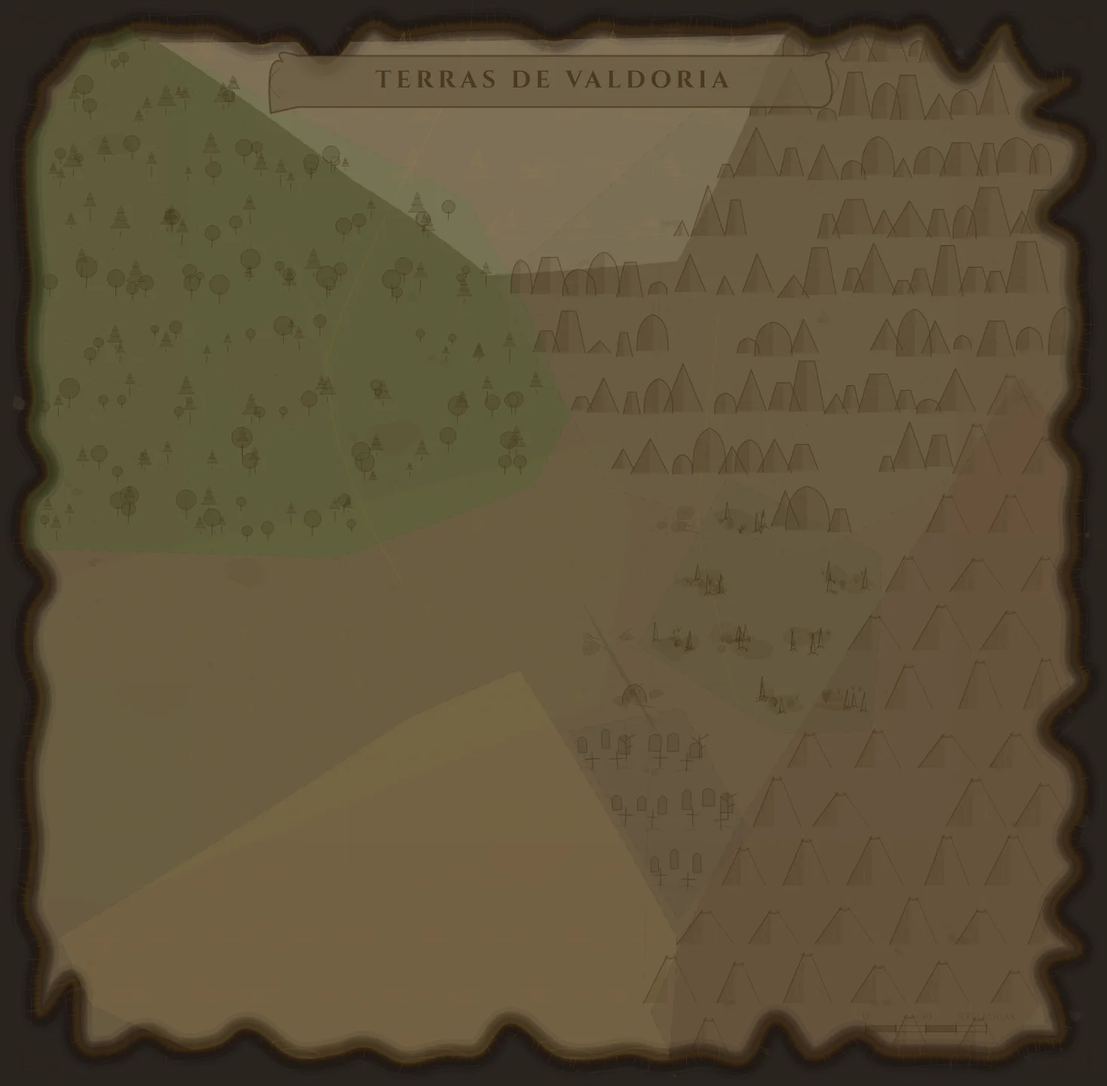
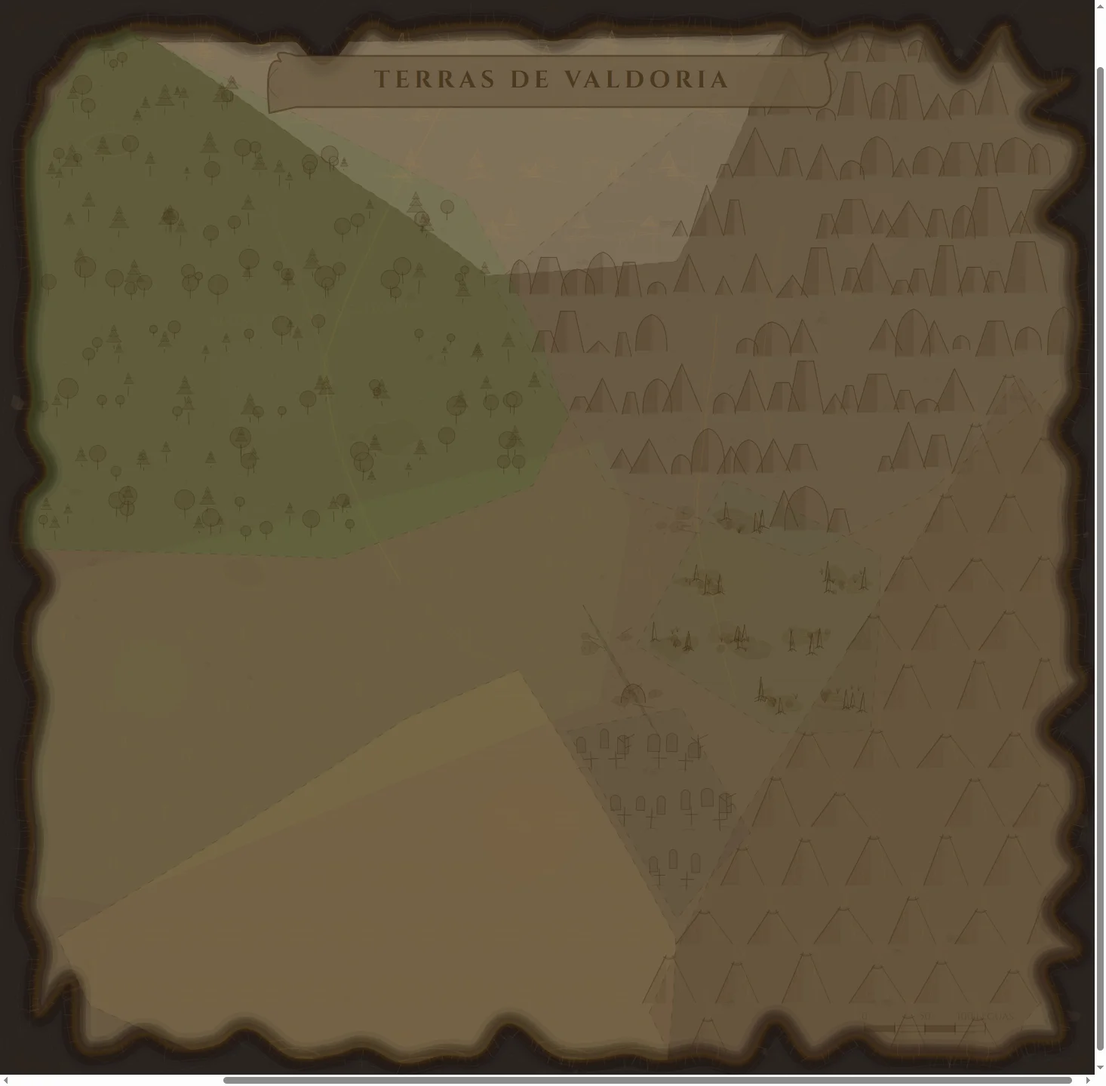
fix: boost terrain decoration opacity + regenerate static PNG
Terrain decorations (trees, mountains, rocks, etc.) were invisible due to
extremely low opacity values (0.06-0.22). Boosted fill-opacity, stroke-opacity,
and stroke-width across build-map-terrain.js and build-map-extras.js, then
regenerated all static map variants (2x PNG, 1x PNG, WebP).

Changed region(s): [[0.0, 0.0, 1.0, 1.0]]

diff --git a/navigate/build-map-extras.js b/navigate/build-map-extras.js
@@ -1,36 +1,36 @@
 function renderOceanWaves(svg){var wG=_el('g',{class:'ocean-waves','pointer-events':'none'});for(var ring=0;ring<4;ring++){var offset=8+ring*12,opacity=0.12-ring*0.02;var pts=LANDMASS_POINTS;var cx=pts.reduce(function(s,p){return s+p[0];},0)/pts.length;var cy=pts.reduce(function(s,p){return s+p[1];},0)/pts.length;var waveD='';for(var i=0;i<pts.length;i++){var px=pts[i][0],py=pts[i][1],dx=px-cx,dy=py-cy;var len=Math.sqrt(dx*dx+dy*dy)||1;var ox=px+(dx/len)*offset,oy=py+(dy/len)*offset;var wobX=(srand(i*47+ring*200)-0.5)*6,wobY=(srand(i*53+ring*200)-0.5)*6;if(i===0)waveD='M'+(ox+wobX)+','+(oy+wobY);else{var ppx=pts[i-1][0],ppy=pts[i-1][1],pdx=ppx-cx,pdy=ppy-cy;var plen=Math.sqrt(pdx*pdx+pdy*pdy)||1;var pox=ppx+(pdx/plen)*offset,poy=ppy+(pdy/plen)*offset;waveD+=' Q'+((pox+ox)/2+wobX)+','+((poy+oy)/2+wobY)+' '+(ox+wobX)+','+(oy+wobY);}}
-waveD+=' Z';wG.appendChild(_el('path',{d:waveD,fill:'none',stroke:INK,'stroke-width':0.4-ring*0.05,'stroke-opacity':opacity,'stroke-dasharray':ring%2===0?'none':'3 4'}));}
-for(var i=0;i<60;i++){var wx=20+srand(i*71)*(SVG_W-40),wy=20+srand(i*73+1)*(SVG_H-40);if(_pointInLandmass(wx,wy))continue;var wLen=4+srand(i*73+2)*8,wAmp=1+srand(i*73+3)*2;wG.appendChild(_el('path',{d:'M'+(wx-wLen)+','+wy+'Q'+wx+','+(wy-wAmp)+' '+(wx+wLen)+','+wy,fill:'none',stroke:INK,'stroke-width':0.3,'stroke-opacity':0.06+srand(i*73+4)*0.06}));}
+waveD+=' Z';wG.appendChild(_el('path',{d:waveD,fill:'none',stroke:INK,'stroke-width':0.6-ring*0.05,'stroke-opacity':opacity,'stroke-dasharray':ring%2===0?'none':'3 4'}));}
+for(var i=0;i<60;i++){var wx=20+srand(i*71)*(SVG_W-40),wy=20+srand(i*73+1)*(SVG_H-40);if(_pointInLandmass(wx,wy))continue;var wLen=4+srand(i*73+2)*8,wAmp=1+srand(i*73+3)*2;wG.appendChild(_el('path',{d:'M'+(wx-wLen)+','+wy+'Q'+wx+','+(wy-wAmp)+' '+(wx+wLen)+','+wy,fill:'none',stroke:INK,'stroke-width':0.4,'stroke-opacity':0.12+srand(i*73+4)*0.06}));}
 svg.appendChild(wG);}
-function renderTitleCartouche(svg){var cG=_el('g',{class:'title-cartouche','pointer-events':'none'});var tx=SVG_W/2,ty=55,fw=180,fh=36;var ribbonD='M'+(tx-fw)+','+(ty-fh/2+4)+' Q'+(tx-fw-12)+','+(ty-fh/2-2)+' '+(tx-fw-8)+','+(ty+fh/2+2)+' L'+(tx-fw+10)+','+(ty+fh/2-2)+' L'+(tx+fw-10)+','+(ty+fh/2-2)+' Q'+(tx+fw+12)+','+(ty+fh/2+2)+' '+(tx+fw)+','+(ty-fh/2+4)+' Q'+(tx+fw+8)+','+(ty-fh/2-6)+' '+(tx+fw-10)+','+(ty-fh/2)+' L'+(tx-fw+10)+','+(ty-fh/2)+' Q'+(tx-fw-8)+','+(ty-fh/2-6)+' '+(tx-fw)+','+(ty-fh/2+4)+' Z';cG.appendChild(_el('path',{d:ribbonD,fill:PARCHMENT,'fill-opacity':0.7,stroke:'none'}));cG.appendChild(_el('path',{d:ribbonD,fill:'none',stroke:INK_DARK,'stroke-width':1.2,'stroke-opacity':0.5}));var innerD='M'+(tx-fw+14)+','+(ty-fh/2+4)+'L'+(tx+fw-14)+','+(ty-fh/2+4)+'L'+(tx+fw-14)+','+(ty+fh/2-6)+'L'+(tx-fw+14)+','+(ty+fh/2-6)+'Z';cG.appendChild(_el('path',{d:innerD,fill:'none',stroke:INK,'stroke-width':0.4,'stroke-opacity':0.3}));[-1,1].forEach(function(side){var sx=tx+side*fw;cG.appendChild(_el('path',{d:'M'+(sx+side*2)+','+(ty-10)+'Q'+(sx+side*15)+','+ty+' '+(sx+side*2)+','+(ty+10),fill:'none',stroke:INK_DARK,'stroke-width':0.6,'stroke-opacity':0.3}));});var title=_el('text',{x:tx,y:ty+3,'text-anchor':'middle','font-size':'16px','font-family':'Cinzel Decorative, Cinzel, serif','font-weight':'700',fill:INK_DARK,'fill-opacity':0.7,'letter-spacing':'3px'});title.textContent='TERRAS DE VALDORIA';cG.appendChild(title);svg.appendChild(cG);}
-function renderBorderOrnaments(svg){var oG=_el('g',{class:'border-ornaments','pointer-events':'none'});var m=10;[{x:m,y:m,sx:1,sy:1},{x:SVG_W-m,y:m,sx:-1,sy:1},{x:m,y:SVG_H-m,sx:1,sy:-1},{x:SVG_W-m,y:SVG_H-m,sx:-1,sy:-1}].forEach(function(c){var g=_el('g',{transform:'translate('+c.x+','+c.y+') scale('+c.sx+','+c.sy+')'});g.appendChild(_el('path',{d:'M0,0 L35,0 Q30,5 25,3 Q18,8 12,5 Q8,10 5,8 Q3,15 0,12 Z',fill:INK_DARK,'fill-opacity':0.06,stroke:INK_DARK,'stroke-width':0.6,'stroke-opacity':0.25}));g.appendChild(_el('path',{d:'M3,3 Q8,0 10,5 Q12,10 8,12 Q4,14 3,10',fill:'none',stroke:INK_DARK,'stroke-width':0.5,'stroke-opacity':0.2}));g.appendChild(_el('circle',{cx:5,cy:5,r:1.2,fill:INK_DARK,'fill-opacity':0.15}));oG.appendChild(g);});[{x:SVG_W/2,y:6,rot:0},{x:SVG_W/2,y:SVG_H-6,rot:180},{x:6,y:SVG_H/2,rot:270},{x:SVG_W-6,y:SVG_H/2,rot:90}].forEach(function(mp){var mg=_el('g',{transform:'translate('+mp.x+','+mp.y+') rotate('+mp.rot+')'});mg.appendChild(_el('path',{d:'M0,-6 L4,0 L0,6 L-4,0 Z',fill:INK_DARK,'fill-opacity':0.08,stroke:INK_DARK,'stroke-width':0.5,'stroke-opacity':0.2}));mg.appendChild(_el('circle',{cx:-7,cy:0,r:0.8,fill:INK_DARK,'fill-opacity':0.12}));mg.appendChild(_el('circle',{cx:7,cy:0,r:0.8,fill:INK_DARK,'fill-opacity':0.12}));oG.appendChild(mg);});svg.appendChild(oG);}
-function renderScaleBar(svg){var sG=_el('g',{class:'scale-bar','pointer-events':'none'});var bx=SVG_W-160,by=SVG_H-40,barW=80,barH=4;for(var i=0;i<4;i++){var segW=barW/4;sG.appendChild(_el('rect',{x:bx+i*segW,y:by,width:segW,height:barH,fill:i%2===0?INK_DARK:'none','fill-opacity':0.3,stroke:INK_DARK,'stroke-width':0.5,'stroke-opacity':0.35}));}
-for(var i=0;i<=4;i++){sG.appendChild(_el('line',{x1:bx+(i/4)*barW,y1:by-2,x2:bx+(i/4)*barW,y2:by+barH+2,stroke:INK_DARK,'stroke-width':0.6,'stroke-opacity':0.35}));}
-[{text:'0',x:bx},{text:'50',x:bx+barW/2},{text:'100 leguas',x:bx+barW}].forEach(function(l){var t=_el('text',{x:l.x,y:by-4,'text-anchor':'middle','font-size':'7px','font-family':'Cinzel, serif',fill:INK_DARK,'fill-opacity':0.4});t.textContent=l.text;sG.appendChild(t);});svg.appendChild(sG);}
+function renderTitleCartouche(svg){var cG=_el('g',{class:'title-cartouche','pointer-events':'none'});var tx=SVG_W/2,ty=55,fw=180,fh=36;var ribbonD='M'+(tx-fw)+','+(ty-fh/2+4)+' Q'+(tx-fw-12)+','+(ty-fh/2-2)+' '+(tx-fw-8)+','+(ty+fh/2+2)+' L'+(tx-fw+10)+','+(ty+fh/2-2)+' L'+(tx+fw-10)+','+(ty+fh/2-2)+' Q'+(tx+fw+12)+','+(ty+fh/2+2)+' '+(tx+fw)+','+(ty-fh/2+4)+' Q'+(tx+fw+8)+','+(ty-fh/2-6)+' '+(tx+fw-10)+','+(ty-fh/2)+' L'+(tx-fw+10)+','+(ty-fh/2)+' Q'+(tx-fw-8)+','+(ty-fh/2-6)+' '+(tx-fw)+','+(ty-fh/2+4)+' Z';cG.appendChild(_el('path',{d:ribbonD,fill:PARCHMENT,'fill-opacity':0.50,stroke:'none'}));cG.appendChild(_el('path',{d:ribbonD,fill:'none',stroke:INK_DARK,'stroke-width':1.2,'stroke-opacity':0.80}));var innerD='M'+(tx-fw+14)+','+(ty-fh/2+4)+'L'+(tx+fw-14)+','+(ty-fh/2+4)+'L'+(tx+fw-14)+','+(ty+fh/2-6)+'L'+(tx-fw+14)+','+(ty+fh/2-6)+'Z';cG.appendChild(_el('path',{d:innerD,fill:'none',stroke:INK,'stroke-width':0.6,'stroke-opacity':0.60}));[-1,1].forEach(function(side){var sx=tx+side*fw;cG.appendChild(_el('path',{d:'M'+(sx+side*2)+','+(ty-10)+'Q'+(sx+side*15)+','+ty+' '+(sx+side*2)+','+(ty+10),fill:'none',stroke:INK_DARK,'stroke-width':0.9,'stroke-opacity':0.60}));});var title=_el('text',{x:tx,y:ty+3,'text-anchor':'middle','font-size':'16px','font-family':'Cinzel Decorative, Cinzel, serif','font-weight':'700',fill:INK_DARK,'fill-opacity':0.50,'letter-spacing':'3px'});title.textContent='TERRAS DE VALDORIA';cG.appendChild(title);svg.appendChild(cG);}
+function renderBorderOrnaments(svg){var oG=_el('g',{class:'border-ornaments','pointer-events':'none'});var m=10;[{x:m,y:m,sx:1,sy:1},{x:SVG_W-m,y:m,sx:-1,sy:1},{x:m,y:SVG_H-m,sx:1,sy:-1},{x:SVG_W-m,y:SVG_H-m,sx:-1,sy:-1}].forEach(function(c){var g=_el('g',{transform:'translate('+c.x+','+c.y+') scale('+c.sx+','+c.sy+')'});g.appendChild(_el('path',{d:'M0,0 L35,0 Q30,5 25,3 Q18,8 12,5 Q8,10 5,8 Q3,15 0,12 Z',fill:INK_DARK,'fill-opacity':0.15,stroke:INK_DARK,'stroke-width':0.9,'stroke-opacity':0.50}));g.appendChild(_el('path',{d:'M3,3 Q8,0 10,5 Q12,10 8,12 Q4,14 3,10',fill:'none',stroke:INK_DARK,'stroke-width':0.8,'stroke-opacity':0.40}));g.appendChild(_el('circle',{cx:5,cy:5,r:1.2,fill:INK_DARK,'fill-opacity':0.38}));oG.appendChild(g);});[{x:SVG_W/2,y:6,rot:0},{x:SVG_W/2,y:SVG_H-6,rot:180},{x:6,y:SVG_H/2,rot:270},{x:SVG_W-6,y:SVG_H/2,rot:90}].forEach(function(mp){var mg=_el('g',{transform:'translate('+mp.x+','+mp.y+') rotate('+mp.rot+')'});mg.appendChild(_el('path',{d:'M0,-6 L4,0 L0,6 L-4,0 Z',fill:INK_DARK,'fill-opacity':0.20,stroke:INK_DARK,'stroke-width':0.8,'stroke-opacity':0.40}));mg.appendChild(_el('circle',{cx:-7,cy:0,r:0.8,fill:INK_DARK,'fill-opacity':0.30}));mg.appendChild(_el('circle',{cx:7,cy:0,r:0.8,fill:INK_DARK,'fill-opacity':0.30}));oG.appendChild(mg);});svg.appendChild(oG);}
+function renderScaleBar(svg){var sG=_el('g',{class:'scale-bar','pointer-events':'none'});var bx=SVG_W-160,by=SVG_H-40,barW=80,barH=4;for(var i=0;i<4;i++){var segW=barW/4;sG.appendChild(_el('rect',{x:bx+i*segW,y:by,width:segW,height:barH,fill:i%2===0?INK_DARK:'none','fill-opacity':0.50,stroke:INK_DARK,'stroke-width':0.8,'stroke-opacity':0.70}));}
+for(var i=0;i<=4;i++){sG.appendChild(_el('line',{x1:bx+(i/4)*barW,y1:by-2,x2:bx+(i/4)*barW,y2:by+barH+2,stroke:INK_DARK,'stroke-width':0.9,'stroke-opacity':0.70}));}
+[{text:'0',x:bx},{text:'50',x:bx+barW/2},{text:'100 leguas',x:bx+barW}].forEach(function(l){var t=_el('text',{x:l.x,y:by-4,'text-anchor':'middle','font-size':'7px','font-family':'Cinzel, serif',fill:INK_DARK,'fill-opacity':0.50});t.textContent=l.text;sG.appendChild(t);});svg.appendChild(sG);}
 function renderSeaCreatures(svg){var cG=_el('g',{class:'sea-creatures','pointer-events':'none'});_drawWhaleEpic(cG,55,95);_drawKrakenTentacle(cG,40,SVG_H-70);_drawFishSchool(cG,SVG_W/2+80,22);_drawSeaTurtle(cG,SVG_W-45,SVG_H/2+30);_drawJellyfish(cG,30,SVG_H/2-60);_drawSailingShip(cG,SVG_W-65,80);_drawSmallBoat(cG,SVG_W/2-100,SVG_H-35);svg.appendChild(cG);}
-function _drawWhaleEpic(g,x,y){var wg=_el('g',{opacity:0.12});wg.appendChild(_el('path',{d:'M'+x+','+y+' C'+(x+8)+','+(y-8)+' '+(x+22)+','+(y-10)+' '+(x+30)+','+(y-4)+' C'+(x+36)+','+y+' '+(x+32)+','+(y+6)+' '+(x+24)+','+(y+8)+' C'+(x+16)+','+(y+10)+' '+(x+6)+','+(y+6)+' '+x+','+y,fill:INK_DARK,'fill-opacity':0.4,stroke:INK,'stroke-width':1.2}));wg.appendChild(_el('path',{d:'M'+(x-2)+','+(y+1)+' C'+(x-8)+','+(y-6)+' '+(x-12)+','+(y-2)+' '+(x-10)+','+(y+2)+' C'+(x-12)+','+(y+6)+' '+(x-8)+','+(y+8)+' '+(x-2)+','+(y+1),fill:INK_DARK,'fill-opacity':0.3,stroke:INK,'stroke-width':0.8}));wg.appendChild(_el('path',{d:'M'+(x+20)+','+(y-8)+' Q'+(x+18)+','+(y-16)+' '+(x+22)+','+(y-18)+' M'+(x+20)+','+(y-8)+' Q'+(x+22)+','+(y-16)+' '+(x+18)+','+(y-18),fill:'none',stroke:INK,'stroke-width':0.6}));wg.appendChild(_el('circle',{cx:x+26,cy:y-2,r:1,fill:INK_DARK}));g.appendChild(wg);}
-function _drawKrakenTentacle(g,x,y){var kg=_el('g',{opacity:0.1});['M'+x+','+y+' Q'+(x+15)+','+(y-8)+' '+(x+25)+','+(y-15)+' Q'+(x+30)+','+(y-20)+' '+(x+28)+','+(y-28),'M'+(x-5)+','+(y+5)+' Q'+(x+8)+','+y+' '+(x+18)+','+(y-5)+' Q'+(x+24)+','+(y-8)+' '+(x+20)+','+(y-14),'M'+(x+3)+','+(y+8)+' Q'+(x+12)+','+(y+5)+' '+(x+22)+','+(y+2)+' Q'+(x+28)+','+y+' '+(x+26)+','+(y-6)].forEach(function(d,i){kg.appendChild(_el('path',{d:d,fill:'none',stroke:INK,'stroke-width':2.5-i*0.5,'stroke-linecap':'round'}));for(var j=0;j<4;j++){var t=0.25+j*0.2;kg.appendChild(_el('circle',{cx:x+t*25+(srand(i*100+j*17)-0.5)*4,cy:y-t*15+i*5+(srand(i*100+j*23)-0.5)*3,r:0.8-j*0.1,fill:INK,'fill-opacity':0.5}));}});g.appendChild(kg);}
-function _drawFishSchool(g,x,y){var fg=_el('g',{opacity:0.1});for(var i=0;i<6;i++){var fx=x+(srand(i*37)-0.5)*30,fy=y+(srand(i*41)-0.5)*12,sz=2.5+srand(i*43)*2,dir=srand(i*47)>0.5?1:-1;fg.appendChild(_el('path',{d:'M'+(fx-sz*dir)+','+fy+' Q'+fx+','+(fy-sz*0.4)+' '+(fx+sz*dir)+','+fy+' Q'+fx+','+(fy+sz*0.4)+' '+(fx-sz*dir)+','+fy,fill:INK,'fill-opacity':0.4,stroke:INK,'stroke-width':0.3}));fg.appendChild(_el('path',{d:'M'+(fx-sz*dir)+','+fy+'L'+(fx-sz*1.5*dir)+','+(fy-sz*0.3)+' M'+(fx-sz*dir)+','+fy+'L'+(fx-sz*1.5*dir)+','+(fy+sz*0.3),fill:'none',stroke:INK,'stroke-width':0.4}));fg.appendChild(_el('circle',{cx:fx+sz*0.4*dir,cy:fy-sz*0.1,r:0.4,fill:INK_DARK}));}g.appendChild(fg);}
-function _drawSeaTurtle(g,x,y){var tg=_el('g',{opacity:0.1});tg.appendChild(_el('ellipse',{cx:x,cy:y,rx:8,ry:6,fill:INK,'fill-opacity':0.3,stroke:INK,'stroke-width':0.8}));for(var i=0;i<5;i++){var a=(i/5)*Math.PI*2;tg.appendChild(_el('line',{x1:x,y1:y,x2:x+Math.cos(a)*4,y2:y+Math.sin(a)*3,stroke:INK,'stroke-width':0.3,'stroke-opacity':0.4}));}tg.appendChild(_el('ellipse',{cx:x+9,cy:y-1,rx:3,ry:2,fill:INK,'fill-opacity':0.25,stroke:INK,'stroke-width':0.5}));[[-6,-5,-30],[-6,5,30],[5,-4,-50],[5,4,50]].forEach(function(f){tg.appendChild(_el('ellipse',{cx:x+f[0],cy:y+f[1],rx:4,ry:1.5,transform:'rotate('+f[2]+', '+(x+f[0])+', '+(y+f[1])+')',fill:INK,'fill-opacity':0.2,stroke:INK,'stroke-width':0.3}));});g.appendChild(tg);}
-function _drawJellyfish(g,x,y){var jg=_el('g',{opacity:0.09});jg.appendChild(_el('path',{d:'M'+(x-7)+','+y+' Q'+(x-7)+','+(y-10)+' '+x+','+(y-12)+' Q'+(x+7)+','+(y-10)+' '+(x+7)+','+y+' Z',fill:INK,'fill-opacity':0.25,stroke:INK,'stroke-width':0.6}));for(var i=0;i<5;i++){var tx=x-5+i*2.5;jg.appendChild(_el('path',{d:'M'+tx+','+y+' Q'+(tx+(srand(i*37)-0.5)*4)+','+(y+8)+' '+(tx+(srand(i*41)-0.5)*6)+','+(y+16),fill:'none',stroke:INK,'stroke-width':0.4,'stroke-linecap':'round'}));}g.appendChild(jg);}
-function _drawSailingShip(g,x,y){var sg=_el('g',{opacity:0.12});sg.appendChild(_el('path',{d:'M'+(x-14)+','+(y+2)+' L'+(x-10)+','+(y+6)+' L'+(x+10)+','+(y+6)+' L'+(x+14)+','+(y+2),fill:INK,'fill-opacity':0.2,stroke:INK,'stroke-width':0.8}));sg.appendChild(_el('line',{x1:x,y1:y+4,x2:x,y2:y-16,stroke:INK,'stroke-width':0.8}));sg.appendChild(_el('path',{d:'M'+x+','+(y-14)+' Q'+(x+10)+','+(y-8)+' '+x+','+(y-2),fill:INK,'fill-opacity':0.15,stroke:INK,'stroke-width':0.5}));sg.appendChild(_el('path',{d:'M'+x+','+(y-12)+' Q'+(x-7)+','+(y-7)+' '+x+','+(y-2),fill:INK,'fill-opacity':0.1,stroke:INK,'stroke-width':0.4}));sg.appendChild(_el('path',{d:'M'+x+','+(y-16)+' L'+(x+5)+','+(y-14)+' L'+x+','+(y-12),fill:INK,'fill-opacity':0.3,stroke:'none'}));sg.appendChild(_el('path',{d:'M'+(x-18)+','+(y+6)+' Q'+(x-8)+','+(y+4)+' '+x+','+(y+6)+' Q'+(x+8)+','+(y+8)+' '+(x+18)+','+(y+6),fill:'none',stroke:INK,'stroke-width':0.4,'stroke-opacity':0.6}));g.appendChild(sg);}
-function _drawSmallBoat(g,x,y){var bg=_el('g',{opacity:0.1});bg.appendChild(_el('path',{d:'M'+(x-8)+','+y+' L'+(x-6)+','+(y+3)+' L'+(x+6)+','+(y+3)+' L'+(x+8)+','+y,fill:INK,'fill-opacity':0.2,stroke:INK,'stroke-width':0.6}));bg.appendChild(_el('line',{x1:x,y1:y+2,x2:x,y2:y-8,stroke:INK,'stroke-width':0.6}));bg.appendChild(_el('path',{d:'M'+x+','+(y-7)+' Q'+(x+5)+','+(y-4)+' '+x+','+(y-1),fill:INK,'fill-opacity':0.12,stroke:INK,'stroke-width':0.3}));g.appendChild(bg);}
-function renderExtraRivers(svg){var rG=_el('g',{class:'extra-rivers','pointer-events':'none','clip-path':'url(#land-clip)'});var rivers=[{pts:[[180,140],[195,180],[210,220],[220,255]],w:0.8},{pts:[[520,150],[510,200],[505,250],[510,290]],w:0.9},{pts:[[280,400],[310,430],[350,450],[380,440]],w:0.7},{pts:[[420,350],[430,370],[435,395]],w:0.5},{pts:[[350,80],[340,120],[330,155]],w:0.6}];for(var ri=0;ri<rivers.length;ri++){var river=rivers[ri],p=river.pts;var d='M'+p[0][0]+','+p[0][1];for(var i=1;i<p.length;i++){d+=' Q'+((p[i-1][0]+p[i][0])/2+(srand(i*43+p[0][0])-0.5)*6)+','+((p[i-1][1]+p[i][1])/2+(srand(i*47+p[0][1])-0.5)*5)+' '+p[i][0]+','+p[i][1];}rG.appendChild(_el('path',{d:d,fill:'none',stroke:INK,'stroke-width':river.w*0.5,'stroke-opacity':0.3,'stroke-linecap':'round'}));for(var si=0;si<2;si++){var side=si===0?-1:1,dSide='';for(var i2=0;i2<p.length;i2++){var prev=i2>0?p[i2-1]:p[0],curr=p[i2];var dx=i2<p.length-1?p[i2+1][0]-curr[0]:curr[0]-prev[0],dy=i2<p.length-1?p[i2+1][1]-curr[1]:curr[1]-prev[1];var len=Math.sqrt(dx*dx+dy*dy)||1,nx=-dy/len*side*1.2,ny=dx/len*side*1.2;if(i2===0)dSide='M'+(curr[0]+nx)+','+(curr[1]+ny);else dSide+=' Q'+((prev[0]+curr[0])/2+nx+(srand(i2*37+p[0][0]+side*200)-0.5)*4)+','+((prev[1]+curr[1])/2+ny+(srand(i2*41+p[0][1]+side*200)-0.5)*3)+' '+(curr[0]+nx)+','+(curr[1]+ny);}rG.appendChild(_el('path',{d:dSide,fill:'none',stroke:INK,'stroke-width':0.25,'stroke-opacity':0.18,'stroke-linecap':'round'}));}}
+function _drawWhaleEpic(g,x,y){var wg=_el('g',{opacity:0.12});wg.appendChild(_el('path',{d:'M'+x+','+y+' C'+(x+8)+','+(y-8)+' '+(x+22)+','+(y-10)+' '+(x+30)+','+(y-4)+' C'+(x+36)+','+y+' '+(x+32)+','+(y+6)+' '+(x+24)+','+(y+8)+' C'+(x+16)+','+(y+10)+' '+(x+6)+','+(y+6)+' '+x+','+y,fill:INK_DARK,'fill-opacity':0.50,stroke:INK,'stroke-width':1.2}));wg.appendChild(_el('path',{d:'M'+(x-2)+','+(y+1)+' C'+(x-8)+','+(y-6)+' '+(x-12)+','+(y-2)+' '+(x-10)+','+(y+2)+' C'+(x-12)+','+(y+6)+' '+(x-8)+','+(y+8)+' '+(x-2)+','+(y+1),fill:INK_DARK,'fill-opacity':0.50,stroke:INK,'stroke-width':1.2}));wg.appendChild(_el('path',{d:'M'+(x+20)+','+(y-8)+' Q'+(x+18)+','+(y-16)+' '+(x+22)+','+(y-18)+' M'+(x+20)+','+(y-8)+' Q'+(x+22)+','+(y-16)+' '+(x+18)+','+(y-18),fill:'none',stroke:INK,'stroke-width':0.9}));wg.appendChild(_el('circle',{cx:x+26,cy:y-2,r:1,fill:INK_DARK}));g.appendChild(wg);}
+function _drawKrakenTentacle(g,x,y){var kg=_el('g',{opacity:0.1});['M'+x+','+y+' Q'+(x+15)+','+(y-8)+' '+(x+25)+','+(y-15)+' Q'+(x+30)+','+(y-20)+' '+(x+28)+','+(y-28),'M'+(x-5)+','+(y+5)+' Q'+(x+8)+','+y+' '+(x+18)+','+(y-5)+' Q'+(x+24)+','+(y-8)+' '+(x+20)+','+(y-14),'M'+(x+3)+','+(y+8)+' Q'+(x+12)+','+(y+5)+' '+(x+22)+','+(y+2)+' Q'+(x+28)+','+y+' '+(x+26)+','+(y-6)].forEach(function(d,i){kg.appendChild(_el('path',{d:d,fill:'none',stroke:INK,'stroke-width':2.5-i*0.5,'stroke-linecap':'round'}));for(var j=0;j<4;j++){var t=0.25+j*0.2;kg.appendChild(_el('circle',{cx:x+t*25+(srand(i*100+j*17)-0.5)*4,cy:y-t*15+i*5+(srand(i*100+j*23)-0.5)*3,r:0.8-j*0.1,fill:INK,'fill-opacity':0.50}));}});g.appendChild(kg);}
+function _drawFishSchool(g,x,y){var fg=_el('g',{opacity:0.1});for(var i=0;i<6;i++){var fx=x+(srand(i*37)-0.5)*30,fy=y+(srand(i*41)-0.5)*12,sz=2.5+srand(i*43)*2,dir=srand(i*47)>0.5?1:-1;fg.appendChild(_el('path',{d:'M'+(fx-sz*dir)+','+fy+' Q'+fx+','+(fy-sz*0.4)+' '+(fx+sz*dir)+','+fy+' Q'+fx+','+(fy+sz*0.4)+' '+(fx-sz*dir)+','+fy,fill:INK,'fill-opacity':0.50,stroke:INK,'stroke-width':0.4}));fg.appendChild(_el('path',{d:'M'+(fx-sz*dir)+','+fy+'L'+(fx-sz*1.5*dir)+','+(fy-sz*0.3)+' M'+(fx-sz*dir)+','+fy+'L'+(fx-sz*1.5*dir)+','+(fy+sz*0.3),fill:'none',stroke:INK,'stroke-width':0.6}));fg.appendChild(_el('circle',{cx:fx+sz*0.4*dir,cy:fy-sz*0.1,r:0.4,fill:INK_DARK}));}g.appendChild(fg);}
+function _drawSeaTurtle(g,x,y){var tg=_el('g',{opacity:0.1});tg.appendChild(_el('ellipse',{cx:x,cy:y,rx:8,ry:6,fill:INK,'fill-opacity':0.50,stroke:INK,'stroke-width':1.2}));for(var i=0;i<5;i++){var a=(i/5)*Math.PI*2;tg.appendChild(_el('line',{x1:x,y1:y,x2:x+Math.cos(a)*4,y2:y+Math.sin(a)*3,stroke:INK,'stroke-width':0.4,'stroke-opacity':0.80}));}tg.appendChild(_el('ellipse',{cx:x+9,cy:y-1,rx:3,ry:2,fill:INK,'fill-opacity':0.50,stroke:INK,'stroke-width':0.8}));[[-6,-5,-30],[-6,5,30],[5,-4,-50],[5,4,50]].forEach(function(f){tg.appendChild(_el('ellipse',{cx:x+f[0],cy:y+f[1],rx:4,ry:1.5,transform:'rotate('+f[2]+', '+(x+f[0])+', '+(y+f[1])+')',fill:INK,'fill-opacity':0.50,stroke:INK,'stroke-width':0.4}));});g.appendChild(tg);}
+function _drawJellyfish(g,x,y){var jg=_el('g',{opacity:0.09});jg.appendChild(_el('path',{d:'M'+(x-7)+','+y+' Q'+(x-7)+','+(y-10)+' '+x+','+(y-12)+' Q'+(x+7)+','+(y-10)+' '+(x+7)+','+y+' Z',fill:INK,'fill-opacity':0.50,stroke:INK,'stroke-width':0.9}));for(var i=0;i<5;i++){var tx=x-5+i*2.5;jg.appendChild(_el('path',{d:'M'+tx+','+y+' Q'+(tx+(srand(i*37)-0.5)*4)+','+(y+8)+' '+(tx+(srand(i*41)-0.5)*6)+','+(y+16),fill:'none',stroke:INK,'stroke-width':0.6,'stroke-linecap':'round'}));}g.appendChild(jg);}
+function _drawSailingShip(g,x,y){var sg=_el('g',{opacity:0.12});sg.appendChild(_el('path',{d:'M'+(x-14)+','+(y+2)+' L'+(x-10)+','+(y+6)+' L'+(x+10)+','+(y+6)+' L'+(x+14)+','+(y+2),fill:INK,'fill-opacity':0.50,stroke:INK,'stroke-width':1.2}));sg.appendChild(_el('line',{x1:x,y1:y+4,x2:x,y2:y-16,stroke:INK,'stroke-width':1.2}));sg.appendChild(_el('path',{d:'M'+x+','+(y-14)+' Q'+(x+10)+','+(y-8)+' '+x+','+(y-2),fill:INK,'fill-opacity':0.38,stroke:INK,'stroke-width':0.8}));sg.appendChild(_el('path',{d:'M'+x+','+(y-12)+' Q'+(x-7)+','+(y-7)+' '+x+','+(y-2),fill:INK,'fill-opacity':0.25,stroke:INK,'stroke-width':0.6}));sg.appendChild(_el('path',{d:'M'+x+','+(y-16)+' L'+(x+5)+','+(y-14)+' L'+x+','+(y-12),fill:INK,'fill-opacity':0.50,stroke:'none'}));sg.appendChild(_el('path',{d:'M'+(x-18)+','+(y+6)+' Q'+(x-8)+','+(y+4)+' '+x+','+(y+6)+' Q'+(x+8)+','+(y+8)+' '+(x+18)+','+(y+6),fill:'none',stroke:INK,'stroke-width':0.6,'stroke-opacity':0.80}));g.appendChild(sg);}
+function _drawSmallBoat(g,x,y){var bg=_el('g',{opacity:0.1});bg.appendChild(_el('path',{d:'M'+(x-8)+','+y+' L'+(x-6)+','+(y+3)+' L'+(x+6)+','+(y+3)+' L'+(x+8)+','+y,fill:INK,'fill-opacity':0.50,stroke:INK,'stroke-width':0.9}));bg.appendChild(_el('line',{x1:x,y1:y+2,x2:x,y2:y-8,stroke:INK,'stroke-width':0.9}));bg.appendChild(_el('path',{d:'M'+x+','+(y-7)+' Q'+(x+5)+','+(y-4)+' '+x+','+(y-1),fill:INK,'fill-opacity':0.30,stroke:INK,'stroke-width':0.4}));g.appendChild(bg);}
+function renderExtraRivers(svg){var rG=_el('g',{class:'extra-rivers','pointer-events':'none','clip-path':'url(#land-clip)'});var rivers=[{pts:[[180,140],[195,180],[210,220],[220,255]],w:0.8},{pts:[[520,150],[510,200],[505,250],[510,290]],w:0.9},{pts:[[280,400],[310,430],[350,450],[380,440]],w:0.7},{pts:[[420,350],[430,370],[435,395]],w:0.5},{pts:[[350,80],[340,120],[330,155]],w:0.6}];for(var ri=0;ri<rivers.length;ri++){var river=rivers[ri],p=river.pts;var d='M'+p[0][0]+','+p[0][1];for(var i=1;i<p.length;i++){d+=' Q'+((p[i-1][0]+p[i][0])/2+(srand(i*43+p[0][0])-0.5)*6)+','+((p[i-1][1]+p[i][1])/2+(srand(i*47+p[0][1])-0.5)*5)+' '+p[i][0]+','+p[i][1];}rG.appendChild(_el('path',{d:d,fill:'none',stroke:INK,'stroke-width':river.w*0.5,'stroke-opacity':0.60,'stroke-linecap':'round'}));for(var si=0;si<2;si++){var side=si===0?-1:1,dSide='';for(var i2=0;i2<p.length;i2++){var prev=i2>0?p[i2-1]:p[0],curr=p[i2];var dx=i2<p.length-1?p[i2+1][0]-curr[0]:curr[0]-prev[0],dy=i2<p.length-1?p[i2+1][1]-curr[1]:curr[1]-prev[1];var len=Math.sqrt(dx*dx+dy*dy)||1,nx=-dy/len*side*1.2,ny=dx/len*side*1.2;if(i2===0)dSide='M'+(curr[0]+nx)+','+(curr[1]+ny);else dSide+=' Q'+((prev[0]+curr[0])/2+nx+(srand(i2*37+p[0][0]+side*200)-0.5)*4)+','+((prev[1]+curr[1])/2+ny+(srand(i2*41+p[0][1]+side*200)-0.5)*3)+' '+(curr[0]+nx)+','+(curr[1]+ny);}rG.appendChild(_el('path',{d:dSide,fill:'none',stroke:INK,'stroke-width':0.4,'stroke-opacity':0.36,'stroke-linecap':'round'}));}}
 svg.appendChild(rG);}
-function renderLakes(svg){var lG=_el('g',{class:'lakes','pointer-events':'none','clip-path':'url(#land-clip)'});[{x:260,y:290,rx:18,ry:12,seed:100},{x:480,y:420,rx:12,ry:8,seed:200},{x:160,y:380,rx:14,ry:10,seed:300}].forEach(function(lake){var lakeD=_organicBlob(lake.x,lake.y,lake.rx,lake.ry,lake.seed,10);lG.appendChild(_el('path',{d:lakeD,fill:INK_DARK,'fill-opacity':0.06,stroke:INK,'stroke-width':0.5,'stroke-opacity':0.25}));for(var r=0;r<3;r++){var rw=lake.rx*(0.3+r*0.2),ry2=lake.y+(r-1)*3;lG.appendChild(_el('path',{d:'M'+(lake.x-rw)+','+ry2+'Q'+lake.x+','+(ry2-1.5)+' '+(lake.x+rw)+','+ry2,fill:'none',stroke:INK,'stroke-width':0.3,'stroke-opacity':0.15}));}
-for(var i=0;i<12;i++){var a=(i/12)*Math.PI*2,sx=lake.x+Math.cos(a)*(lake.rx+3+srand(lake.seed+i*13)*4),sy=lake.y+Math.sin(a)*(lake.ry+3+srand(lake.seed+i*17)*3);if(!_pointInLandmass(sx,sy))continue;lG.appendChild(_el('circle',{cx:sx,cy:sy,r:0.3+srand(lake.seed+i*19)*0.3,fill:INK,'fill-opacity':0.12}));}});svg.appendChild(lG);}
-function renderRegionNames(svg){var tG=_el('g',{class:'region-names','pointer-events':'none','clip-path':'url(#land-clip)'});[{text:'Floresta dos Sussurros',x:210,y:210,size:9,rot:-5,op:0.18},{text:'Picos de Pedra',x:530,y:190,size:8,rot:12,op:0.16},{text:'Pantanos Nebulosos',x:170,y:340,size:8,rot:-3,op:0.15},{text:'Areias Douradas',x:400,y:380,size:8,rot:7,op:0.16},{text:'Campos Verdes',x:340,y:150,size:8,rot:2,op:0.14},{text:'Deserto Profundo',x:450,y:320,size:7,rot:-8,op:0.14},{text:'Vale Congelado',x:280,y:520,size:8,rot:4,op:0.15},{text:'Cratera Ardente',x:560,y:500,size:7,rot:-6,op:0.14}].forEach(function(r){var t=_el('text',{x:r.x,y:r.y,'text-anchor':'middle','font-size':r.size+'px','font-family':'Cinzel, serif','font-style':'italic',fill:INK,'fill-opacity':r.op,'letter-spacing':'1.5px',transform:'rotate('+r.rot+', '+r.x+', '+r.y+')'});t.textContent=r.text;tG.appendChild(t);});svg.appendChild(tG);}
+function renderLakes(svg){var lG=_el('g',{class:'lakes','pointer-events':'none','clip-path':'url(#land-clip)'});[{x:260,y:290,rx:18,ry:12,seed:100},{x:480,y:420,rx:12,ry:8,seed:200},{x:160,y:380,rx:14,ry:10,seed:300}].forEach(function(lake){var lakeD=_organicBlob(lake.x,lake.y,lake.rx,lake.ry,lake.seed,10);lG.appendChild(_el('path',{d:lakeD,fill:INK_DARK,'fill-opacity':0.15,stroke:INK,'stroke-width':0.8,'stroke-opacity':0.50}));for(var r=0;r<3;r++){var rw=lake.rx*(0.3+r*0.2),ry2=lake.y+(r-1)*3;lG.appendChild(_el('path',{d:'M'+(lake.x-rw)+','+ry2+'Q'+lake.x+','+(ry2-1.5)+' '+(lake.x+rw)+','+ry2,fill:'none',stroke:INK,'stroke-width':0.4,'stroke-opacity':0.30}));}
+for(var i=0;i<12;i++){var a=(i/12)*Math.PI*2,sx=lake.x+Math.cos(a)*(lake.rx+3+srand(lake.seed+i*13)*4),sy=lake.y+Math.sin(a)*(lake.ry+3+srand(lake.seed+i*17)*3);if(!_pointInLandmass(sx,sy))continue;lG.appendChild(_el('circle',{cx:sx,cy:sy,r:0.3+srand(lake.seed+i*19)*0.3,fill:INK,'fill-opacity':0.30}));}});svg.appendChild(lG);}
+function renderRegionNames(svg){var tG=_el('g',{class:'region-names','pointer-events':'none','clip-path':'url(#land-clip)'});[{text:'Floresta dos Sussurros',x:210,y:210,size:9,rot:-5,op:0.31},{text:'Picos de Pedra',x:530,y:190,size:8,rot:12,op:0.27},{text:'Pantanos Nebulosos',x:170,y:340,size:8,rot:-3,op:0.26},{text:'Areias Douradas',x:400,y:380,size:8,rot:7,op:0.27},{text:'Campos Verdes',x:340,y:150,size:8,rot:2,op:0.24},{text:'Deserto Profundo',x:450,y:320,size:7,rot:-8,op:0.24},{text:'Vale Congelado',x:280,y:520,size:8,rot:4,op:0.26},{text:'Cratera Ardente',x:560,y:500,size:7,rot:-6,op:0.24}].forEach(function(r){var t=_el('text',{x:r.x,y:r.y,'text-anchor':'middle','font-size':r.size+'px','font-family':'Cinzel, serif','font-style':'italic',fill:INK,'fill-opacity':r.op,'letter-spacing':'1.5px',transform:'rotate('+r.rot+', '+r.x+', '+r.y+')'});t.textContent=r.text;tG.appendChild(t);});svg.appendChild(tG);}
 function renderCrossHatching(svg){var hG=_el('g',{class:'cross-hatching','pointer-events':'none','clip-path':'url(#land-clip)'});var allHexes=_getAllHexes(),hatchD='';for(var hi=0;hi<allHexes.length;hi++){var col=allHexes[hi][0],row=allHexes[hi][1],biome=allHexes[hi][2];if(biome!=='mountain'&&biome!=='cave'&&biome!=='volcanic')continue;var pos=hexToPixel(col,row);if(!_pointInLandmass(pos.x,pos.y))continue;var seed=col*137+row*89;if(srand(seed)>0.4)continue;var density=biome==='cave'?5:biome==='volcanic'?4:3;for(var i=0;i<density;i++){var hx=pos.x+(srand(seed+i*11)-0.5)*HEX_W*0.8,hy=pos.y+(srand(seed+i*13)-0.5)*ROW_H*0.8,hLen=3+srand(seed+i*17)*5,angle=45+(srand(seed+i*19)-0.5)*30,rad=angle*Math.PI/180;hatchD+='M'+hx+','+hy+'L'+(hx+Math.cos(rad)*hLen)+','+(hy+Math.sin(rad)*hLen);}}
-if(hatchD)hG.appendChild(_el('path',{d:hatchD,fill:'none',stroke:INK_DARK,'stroke-width':0.25,'stroke-opacity':0.1}));svg.appendChild(hG);}
+if(hatchD)hG.appendChild(_el('path',{d:hatchD,fill:'none',stroke:INK_DARK,'stroke-width':0.4,'stroke-opacity':0.20}));svg.appendChild(hG);}
 function renderScatteredRocks(svg){var rG=_el('g',{class:'scattered-rocks','pointer-events':'none','clip-path':'url(#land-clip)'}),rockD='',shadowD='';for(var i=0;i<25;i++){var rx=40+srand(i*97)*(SVG_W-80),ry=40+srand(i*101)*(SVG_H-80);if(!_pointInLandmass(rx,ry))continue;var seed=i*1000,count=1+Math.floor(srand(seed)*3);for(var j=0;j<count;j++){var bx=rx+(srand(seed+j*7)-0.5)*10,by=ry+(srand(seed+j*11)-0.5)*6,bsz=1.5+srand(seed+j*13)*2;rockD+=_organicBlob(bx,by,bsz,bsz*0.7,seed+j*100,5);shadowD+='M'+(bx+bsz*0.3)+','+(by+bsz*0.5)+'a'+(bsz*0.4)+','+(bsz*0.2)+' 0 1,0 '+(bsz*0.6)+',0';}}
-if(rockD)rG.appendChild(_el('path',{d:rockD,fill:INK_DARK,'fill-opacity':0.06,stroke:INK_DARK,'stroke-width':0.25,'stroke-opacity':0.15}));if(shadowD)rG.appendChild(_el('path',{d:shadowD,fill:INK_DARK,'fill-opacity':0.08,stroke:'none'}));svg.appendChild(rG);}
+if(rockD)rG.appendChild(_el('path',{d:rockD,fill:INK_DARK,'fill-opacity':0.15,stroke:INK_DARK,'stroke-width':0.4,'stroke-opacity':0.30}));if(shadowD)rG.appendChild(_el('path',{d:shadowD,fill:INK_DARK,'fill-opacity':0.20,stroke:'none'}));svg.appendChild(rG);}
 function renderWindLines(svg){var wG=_el('g',{class:'wind-lines','pointer-events':'none','clip-path':'url(#land-clip)'}),windD='';for(var i=0;i<30;i++){var wx=50+srand(i*67)*(SVG_W-100),wy=50+srand(i*71)*(SVG_H-100);if(!_pointInLandmass(wx,wy))continue;var wLen=15+srand(i*73)*25,wAmp=(srand(i*79)-0.5)*3;windD+='M'+wx+','+wy+'Q'+(wx+wLen*0.5)+','+(wy+wAmp)+' '+(wx+wLen)+','+(wy+wAmp*0.3);}
-if(windD)wG.appendChild(_el('path',{d:windD,fill:'none',stroke:INK_LIGHT,'stroke-width':0.2,'stroke-opacity':0.08,'stroke-dasharray':'6 4'}));svg.appendChild(wG);}
+if(windD)wG.appendChild(_el('path',{d:windD,fill:'none',stroke:INK_LIGHT,'stroke-width':0.3,'stroke-opacity':0.16,'stroke-dasharray':'6 4'}));svg.appendChild(wG);}
 function renderEdgeStippling(svg){var sG=_el('g',{class:'edge-stipple','pointer-events':'none','clip-path':'url(#land-clip)'}),stippleD='';for(var i=0;i<LANDMASS_POINTS.length;i++){var px=LANDMASS_POINTS[i][0],py=LANDMASS_POINTS[i][1],count=3+Math.floor(srand(i*67)*3);for(var j=0;j<count;j++){var sx=px+(srand(i*67+j*11)-0.5)*20,sy=py+(srand(i*67+j*13)-0.5)*20;if(!_pointInLandmass(sx,sy))continue;var r=0.3+srand(i*67+j*17)*0.5;stippleD+='M'+(sx-r)+','+sy+'a'+r+','+r+' 0 1,0 '+(r*2)+',0a'+r+','+r+' 0 1,0 '+(-r*2)+',0';}}
-if(stippleD)sG.appendChild(_el('path',{d:stippleD,fill:INK,'fill-opacity':0.06,stroke:'none'}));svg.appendChild(sG);}
-function renderLatLongGrid(svg){var gG=_el('g',{class:'lat-long-grid','pointer-events':'none'});for(var y=100;y<SVG_H-50;y+=120){var d='M30,'+y;for(var x=60;x<SVG_W-30;x+=20)d+=' L'+x+','+(y+(srand(x*7+y*3)-0.5)*1.5);gG.appendChild(_el('path',{d:d,fill:'none',stroke:INK,'stroke-width':0.15,'stroke-opacity':0.05,'stroke-dasharray':'8 12'}));}
-for(var x=120;x<SVG_W-50;x+=130){var d='M'+x+',30';for(var y=60;y<SVG_H-30;y+=20)d+=' L'+(x+(srand(x*3+y*7)-0.5)*1.5)+','+y;gG.appendChild(_el('path',{d:d,fill:'none',stroke:INK,'stroke-width':0.15,'stroke-opacity':0.05,'stroke-dasharray':'8 12'}));}
+if(stippleD)sG.appendChild(_el('path',{d:stippleD,fill:INK,'fill-opacity':0.15,stroke:'none'}));svg.appendChild(sG);}
+function renderLatLongGrid(svg){var gG=_el('g',{class:'lat-long-grid','pointer-events':'none'});for(var y=100;y<SVG_H-50;y+=120){var d='M30,'+y;for(var x=60;x<SVG_W-30;x+=20)d+=' L'+x+','+(y+(srand(x*7+y*3)-0.5)*1.5);gG.appendChild(_el('path',{d:d,fill:'none',stroke:INK,'stroke-width':0.2,'stroke-opacity':0.10,'stroke-dasharray':'8 12'}));}
+for(var x=120;x<SVG_W-50;x+=130){var d='M'+x+',30';for(var y=60;y<SVG_H-30;y+=20)d+=' L'+(x+(srand(x*3+y*7)-0.5)*1.5)+','+y;gG.appendChild(_el('path',{d:d,fill:'none',stroke:INK,'stroke-width':0.2,'stroke-opacity':0.10,'stroke-dasharray':'8 12'}));}
 svg.appendChild(gG);}
-function renderExtraParchmentTexture(svg){var tG=_el('g',{class:'extra-texture','pointer-events':'none','clip-path':'url(#land-clip)'});[{x:180,y:250,r:35,op:0.03},{x:480,y:380,r:28,op:0.025},{x:350,y:550,r:32,op:0.02},{x:100,y:450,r:25,op:0.025},{x:580,y:150,r:22,op:0.02}].forEach(function(s){tG.appendChild(_el('circle',{cx:s.x,cy:s.y,r:s.r,fill:INK,'fill-opacity':s.op,stroke:INK,'stroke-width':0.3,'stroke-opacity':s.op*2}));});['M80,100 L'+(SVG_W-120)+','+(SVG_H-80),'M'+(SVG_W-100)+',120 L100,'+(SVG_H-100),'M'+(SVG_W/2-50)+',40 L'+(SVG_W/2+30)+','+(SVG_H-40)].forEach(function(d){tG.appendChild(_el('path',{d:d,fill:'none',stroke:INK_LIGHT,'stroke-width':0.3,'stroke-opacity':0.04}));});var spotsD='';for(var i=0;i<15;i++){var sx=50+srand(i*113)*(SVG_W-100),sy=50+srand(i*127)*(SVG_H-100);if(!_pointInLandmass(sx,sy))continue;var r=1+srand(i*131)*2;spotsD+=_organicBlob(sx,sy,r,r*0.8,i*500,5);}
-if(spotsD)tG.appendChild(_el('path',{d:spotsD,fill:INK_DARK,'fill-opacity':0.04,stroke:'none'}));svg.appendChild(tG);}
+function renderExtraParchmentTexture(svg){var tG=_el('g',{class:'extra-texture','pointer-events':'none','clip-path':'url(#land-clip)'});[{x:180,y:250,r:35,op:0.05},{x:480,y:380,r:28,op:0.04},{x:350,y:550,r:32,op:0.03},{x:100,y:450,r:25,op:0.04},{x:580,y:150,r:22,op:0.03}].forEach(function(s){tG.appendChild(_el('circle',{cx:s.x,cy:s.y,r:s.r,fill:INK,'fill-opacity':s.op,stroke:INK,'stroke-width':0.4,'stroke-opacity':s.op*2}));});['M80,100 L'+(SVG_W-120)+','+(SVG_H-80),'M'+(SVG_W-100)+',120 L100,'+(SVG_H-100),'M'+(SVG_W/2-50)+',40 L'+(SVG_W/2+30)+','+(SVG_H-40)].forEach(function(d){tG.appendChild(_el('path',{d:d,fill:'none',stroke:INK_LIGHT,'stroke-width':0.4,'stroke-opacity':0.08}));});var spotsD='';for(var i=0;i<15;i++){var sx=50+srand(i*113)*(SVG_W-100),sy=50+srand(i*127)*(SVG_H-100);if(!_pointInLandmass(sx,sy))continue;var r=1+srand(i*131)*2;spotsD+=_organicBlob(sx,sy,r,r*0.8,i*500,5);}
+if(spotsD)tG.appendChild(_el('path',{d:spotsD,fill:INK_DARK,'fill-opacity':0.10,stroke:'none'}));svg.appendChild(tG);}
 function renderEpicExtras(svg){renderLatLongGrid(svg);renderOceanWaves(svg);renderEdgeStippling(svg);renderExtraRivers(svg);renderLakes(svg);renderCrossHatching(svg);renderScatteredRocks(svg);renderWindLines(svg);renderExtraParchmentTexture(svg);renderSeaCreatures(svg);renderRegionNames(svg);renderTitleCartouche(svg);renderBorderOrnaments(svg);renderScaleBar(svg);}

diff --git a/navigate/build-map-terrain.js b/navigate/build-map-terrain.js
@@ -157,7 +157,7 @@ function renderTerrainRegions(svg, fogState) {
                 regG.appendChild(_el('path', {
                     d: hullD, fill: 'none',
                     stroke: INK_DARK, 'stroke-width': 0.5,
-                    'stroke-opacity': vis * 0.18,
+                    'stroke-opacity': vis * 0.32,
                     'stroke-dasharray': '4 6',
                 }));
             }
